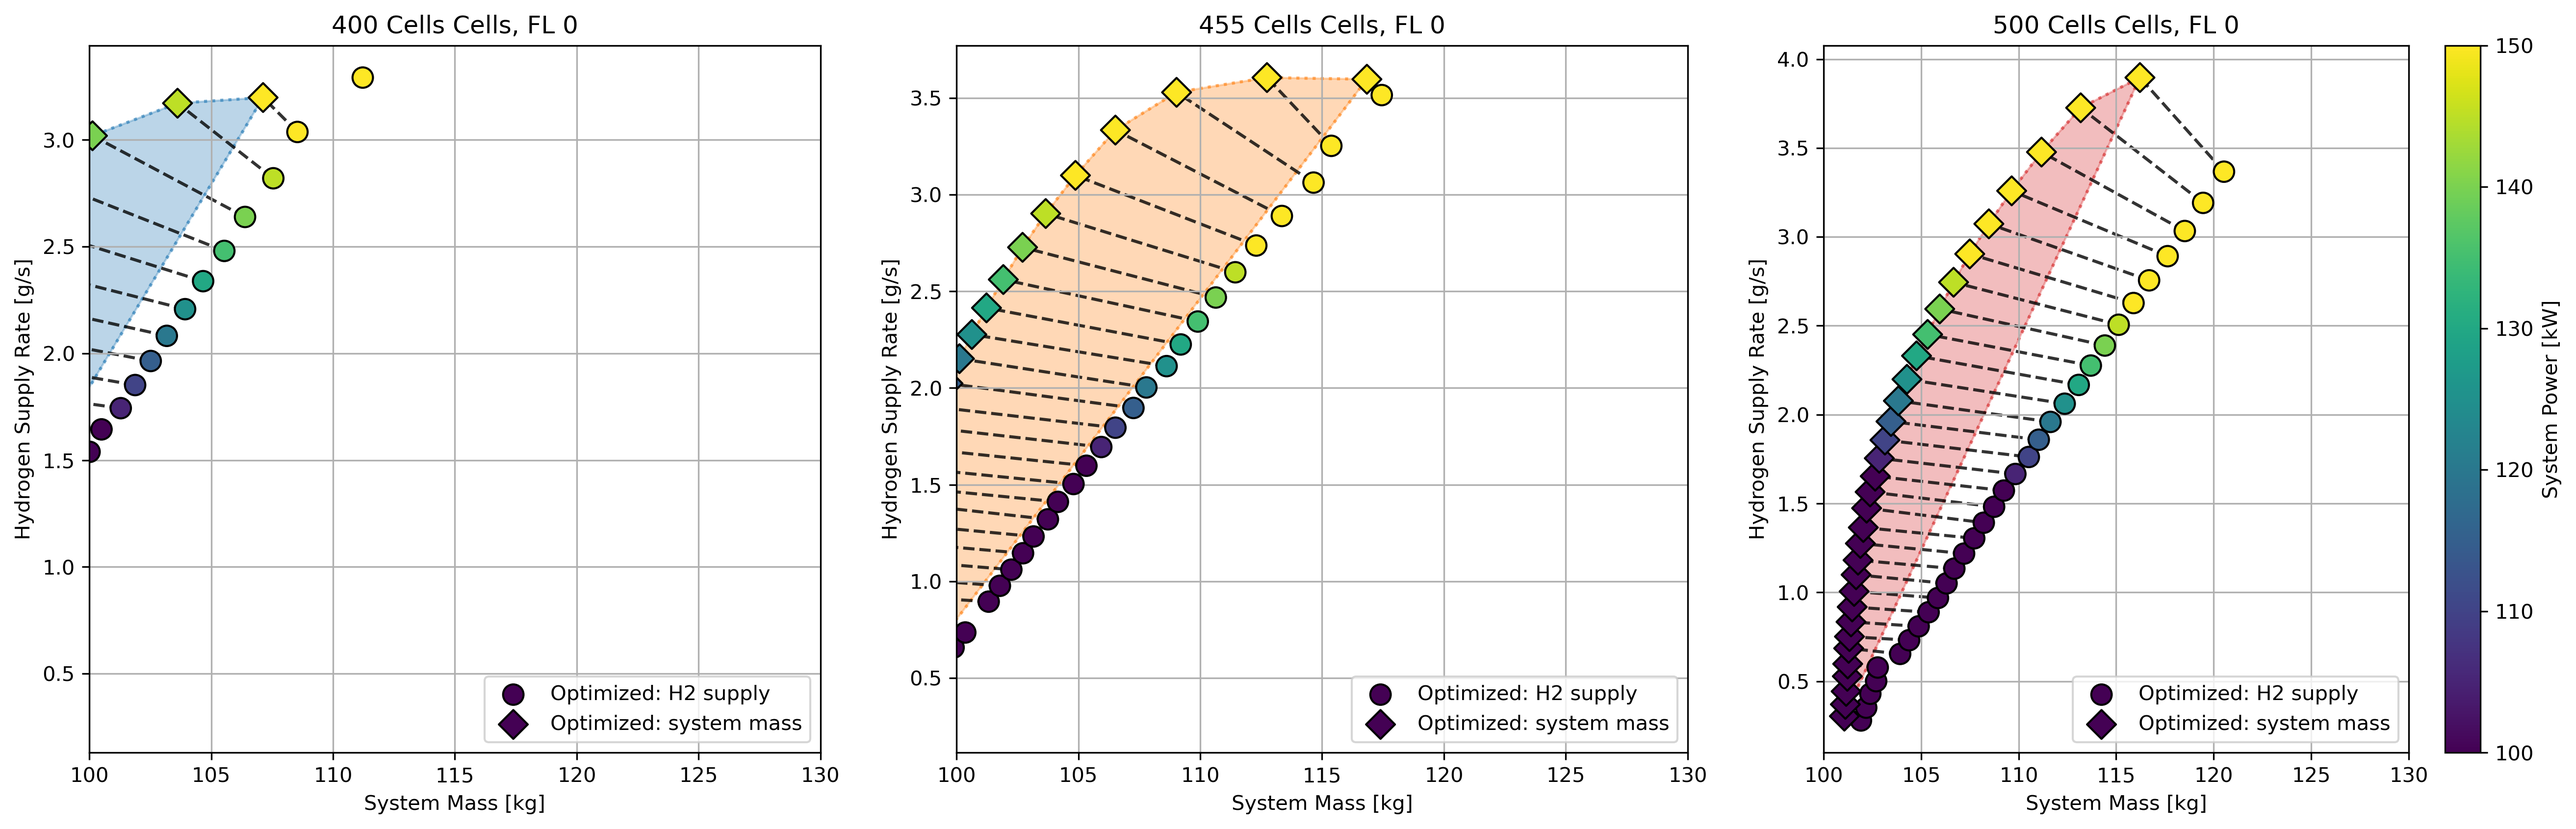
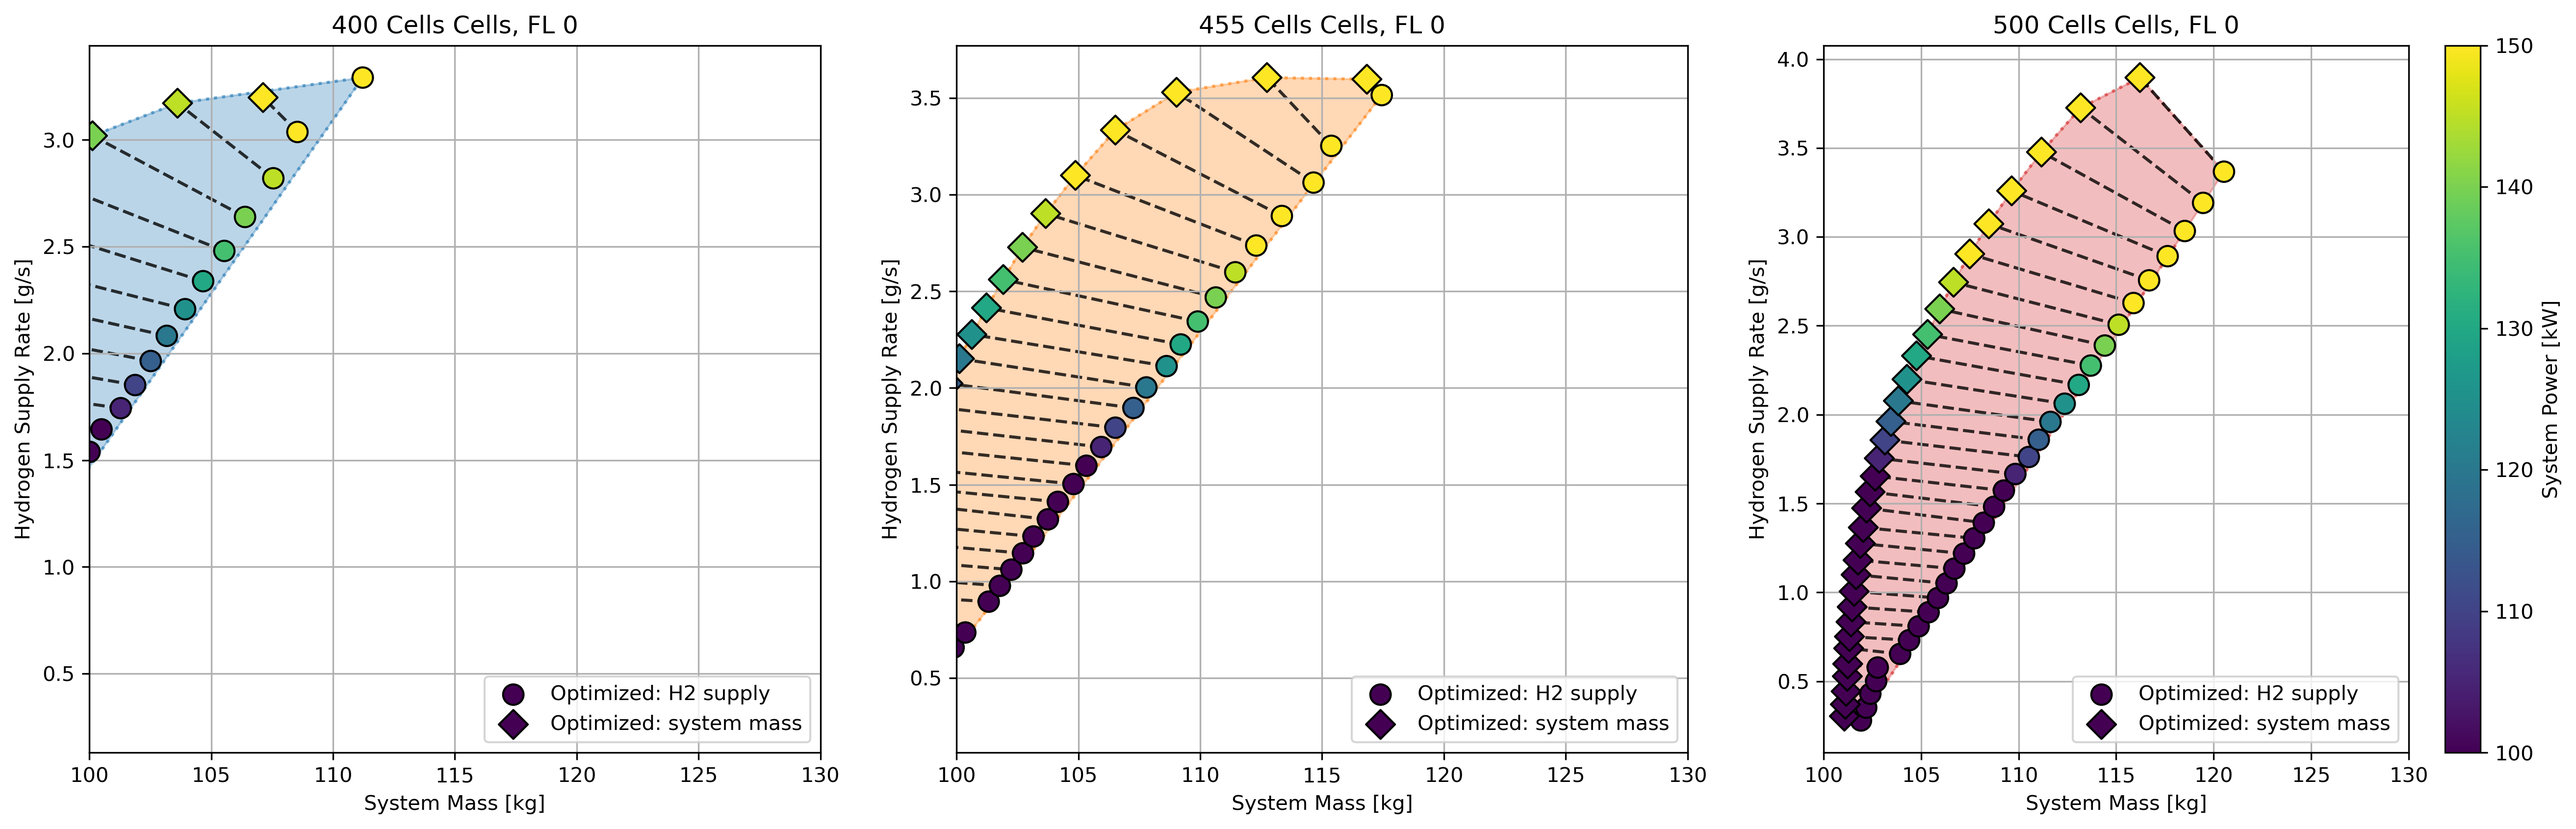
refactor: plot h2 vs mass with different flight levels

diff --git a/05_overall/05_fcs_dimensioning_model/Postprocessing/plot_h2_vs_mass.py b/05_overall/05_fcs_dimensioning_model/Postprocessing/plot_h2_vs_mass.py
@@ -25,7 +25,7 @@ def plot_h2_vs_mass(plot_params, params_general, show_plot, saving=True):
     """
 
     data = params_general['data']
-    fl = params_general['fl']
+    fl_set = params_general['fl']
     cellcounts = params_general['cellcounts']
     weightings = params_general['weightings']  # Only plot weightings 0 and 1
     titles = params_general['titles']
@@ -36,24 +36,21 @@ def plot_h2_vs_mass(plot_params, params_general, show_plot, saving=True):
 
 
     num_plots = len(data)  # Determine the number of required subplots
+    for fl in fl_set:
+        if num_plots == 0:
+            print("No non-empty datasets available for plotting.")
+            return
 
-    # Handle case where all DataFrames are empty
-    if not num_plots:
-        print("No non-empty datasets available for plotting.")
-        return
-
-
-
-    eol = False  # Assuming eol remains constant in all cases
-    for fl in fl:
-    #for fl in fl:
-    
         fig, axs = plt.subplots(1, num_plots, figsize=(6 * num_plots, 6))  # Dynamically adjust figure size
+
+        # Ensure axs is always iterable
         if num_plots == 1:
             axs = [axs]  # Convert to list if only one subplot is present
-        for ax, df, title, color in zip(axs, data, titles, colors):   
-            print(f"fl: {fl},  title {title}, color {color}")
 
+        eol = False  # Assuming eol remains constant in all cases
+
+
+        for ax, df, title, color in zip(axs, data, titles, colors):
             df_filtered = df[(df['Flight Level (100x ft)'] == fl) & (df['eol (t/f)'] == eol)]
             
             # Set up colormap for 'System Power (kW)'
@@ -68,6 +65,7 @@ def plot_h2_vs_mass(plot_params, params_general, show_plot, saving=True):
             all_power = []  # Collect 'System Power (kW)' for coloring
 
         
+            
             for weighting, marker in zip(weightings, markers):
                 df_weighted = df_filtered[df_filtered["weighting ([0,1])"] == weighting]
                 
@@ -83,10 +81,11 @@ def plot_h2_vs_mass(plot_params, params_general, show_plot, saving=True):
                                     cmap='viridis', norm=norm, 
                                     marker=marker, label=f'Weighting {weighting}',
                                     zorder=2)
-            # Collect points for convex hull
-            all_points_x.extend(df_weighted['System Mass (kg)'].values)
-            all_points_y.extend(df_weighted['Hydrogen Supply Rate (g/s)'].values)
-            all_power.extend(df_weighted['System Power (kW)'].values)
+
+                # Collect points for convex hull
+                all_points_x.extend(df_weighted['System Mass (kg)'].values)
+                all_points_y.extend(df_weighted['Hydrogen Supply Rate (g/s)'].values)
+                all_power.extend(df_weighted['System Power (kW)'].values)
 
             # Convert the collected points to numpy arrays for convex hull calculation
             all_points_x = np.array(all_points_x)
@@ -115,7 +114,6 @@ def plot_h2_vs_mass(plot_params, params_general, show_plot, saving=True):
             plt.savefig(file_path, bbox_inches='tight', dpi=300)
             
         plt.show() if show_plot and ax.collections else plt.close()
-
 
 
          

diff --git a/05_overall/05_fcs_dimensioning_model/Postprocessing/get_plots.py b/05_overall/05_fcs_dimensioning_model/Postprocessing/get_plots.py
@@ -131,7 +131,7 @@ def analyze_data(_file_path1, saving=True):
     plot_params_h2_vs_mass = {
     'title': '', 
     'x_label': 'System Mass [kg]', 
-    'x_lim': [100,200], 
+    'x_lim': [100,130], 
     'y_label': 'Hydrogen Supply Rate [g/s]',
     'y_lim': None,  
     'label' : ["H2 supply", "system mass"], 
@@ -313,7 +313,7 @@ def analyze_data(_file_path1, saving=True):
 
 if __name__ == "__main__":
     parser = argparse.ArgumentParser(description="Main script to call get_plots.py")
-    parser.add_argument("-f", "--filepath", type=str, help="path to csv file", default=r"..\test_data\optimized_parameters_25-150kW_400-500_100-100ft.csv")
+    parser.add_argument("-f", "--filepath", type=str, help="path to csv file", default=r"..\test_data\optimized_parameters_20-175kW_400-500_0-120ft 1.csv")
 
     parser.add_argument("-s", "--saving", type=str, choices=["True", "False"], default="True", help="Whether to save plots as .png files")
     args = parser.parse_args()
